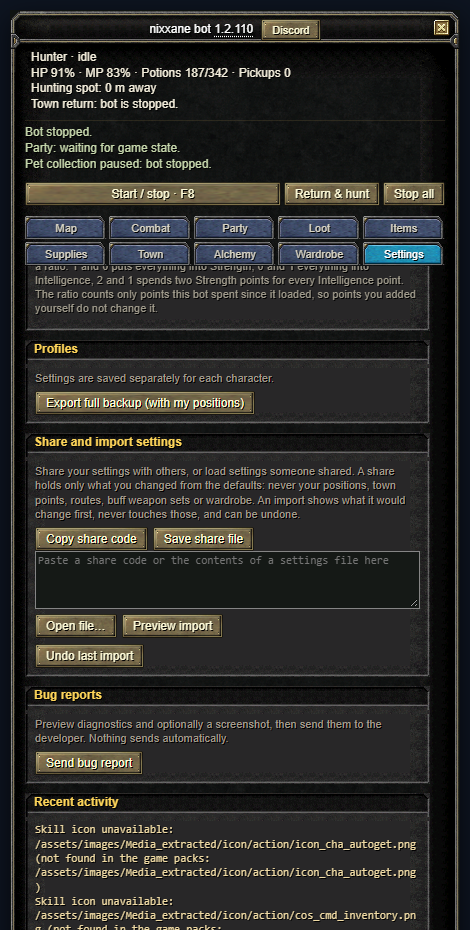
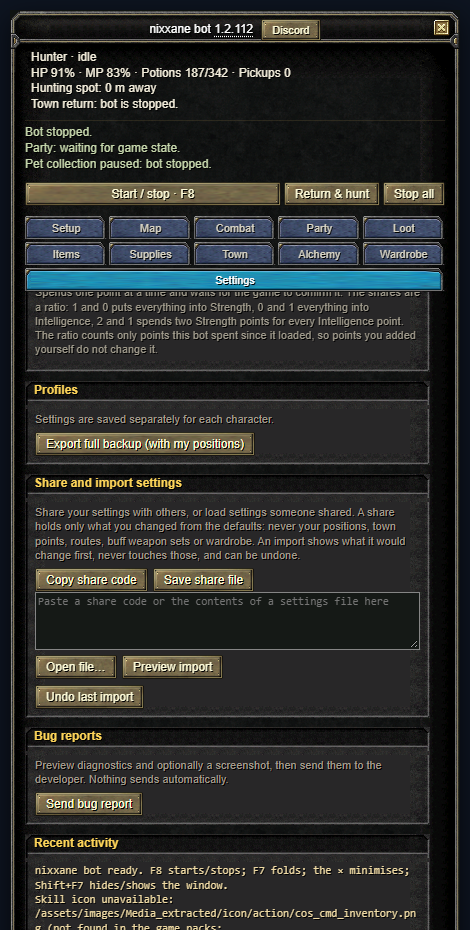
1.2.112 patch notes, follow guide, refreshed screenshots

Changed region(s): [[0.0298, 0.2183, 0.9532, 1.0]]

diff --git a/index.html b/index.html
@@ -26,6 +26,15 @@
       <h2 id="patch-notes-title">Patch notes</h2>
       <p class="notes-intro">Install the latest script, then reload the game. Reporting-service fixes apply automatically.</p>
       <article class="release">
+        <h3><a href="https://github.com/nixxane/opensro-bot-lean/commit/31a7a80">1.2.112</a> · Follow a party member (auto trace)</h3>
+        <ul>
+          <li>New Follow a party member group on the Party page. Tick it, choose a member (or leave it on the party leader) and the bot stays within the distance you set of them while hunting, and hunts around them instead of around your saved hunting spot.</li>
+          <li>The game tells the party where every member is, so the bot also follows them across the map when they run off, up to 300 m. It walks around obstacles when collision data is loaded, and stands beside the member, not on top of them.</li>
+          <li>Your saved hunting spot is never changed: it is only swapped for the member's position while the hunting step runs, and used again as soon as following is off or the member is unavailable (not in the party, dead, in another area or too far).</li>
+          <li>Fight monsters that attack on the way is on by default. The stuck check does not count waiting for the member as being stuck. The chosen member is never part of a share, and the status line says what it is doing.</li>
+        </ul>
+      </article>
+      <article class="release">
         <h3><a href="https://github.com/nixxane/opensro-bot-lean/commit/cafcda1">1.2.111</a> · Setup page: a live checklist for new characters</h3>
         <ul>
           <li>New Setup page, the first one in the list, and the page a character opens on until it has a hunting spot or attack skills. It is a checklist that reads your real state: character and weapon, hunting spot, attack skills, potions (and how many are in the bag), what to pick up, town trips, pet, and what happens on death.</li>

diff --git a/guide.html b/guide.html
@@ -110,6 +110,9 @@
     <h3>Auto mastery and skills</h3>
     <p>Spends skill points for you, one confirmed level at a time: tick the masteries you want and the bot raises them in that order up to your level (minus an optional gap). It can also learn the next level of the skills in your rotations and buffs, and it never spends the reserve you set. Off by default.</p>
     <img class="shot" src="guide/12-mastery.png" width="470" alt="Settings, Auto mastery and skills: the mastery checkboxes, the level gap, the skill upgrade switch, the reserve and the spend order.">
+    <h3>Following a party member</h3>
+    <p>On the <strong>Party</strong> page, tick <strong>Follow a party member while hunting</strong>, choose the member (the party leader by default) and how close to stay. The bot walks to them whenever they get farther away and hunts around them instead of around your saved spot, so it works like an auto trace. It does not follow into a dungeon or another area, and your saved hunting spot is used again as soon as following is off or the member is unavailable.</p>
+    <img class="shot" src="guide/13b-follow.png" width="470" alt="Party page, Follow a party member: the switch, the member list, the distance and the fight option.">
     <h3>Stat points</h3>
     <p>Under <strong>Settings → Stat points</strong>, tick <strong>Spend stat points automatically</strong> and the bot spends your unspent points on Strength and Intelligence as you level up, one confirmed point at a time. The two shares are a ratio: 1 and 0 is all Strength, 0 and 1 is all Intelligence, 2 and 1 is two Strength for every Intelligence. <strong>Keep this many points unspent</strong> holds some back. It is off by default.</p>
     <h3>Share and import settings</h3>
